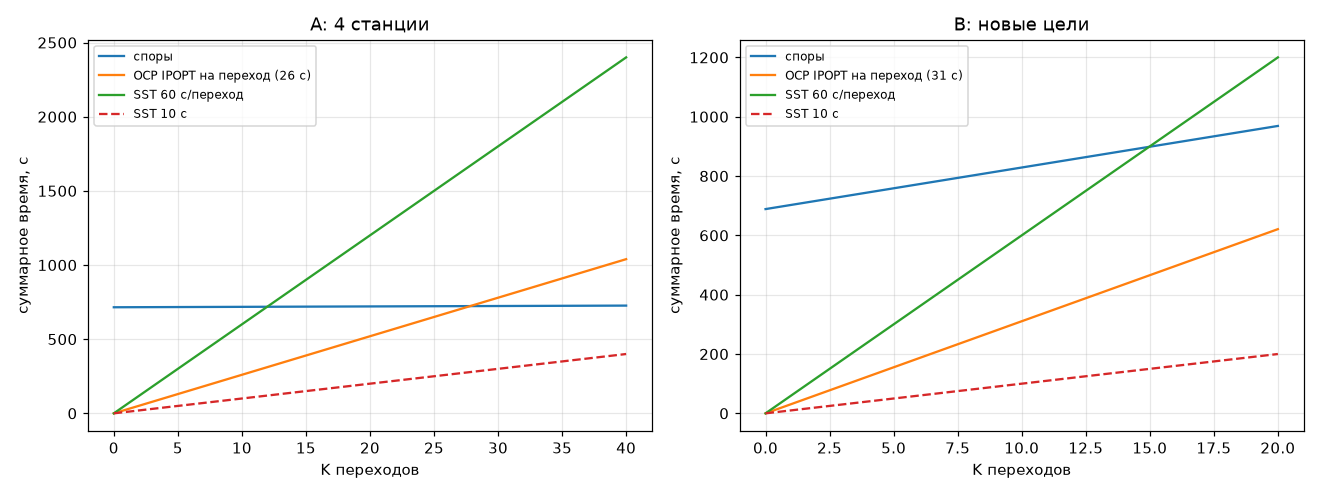
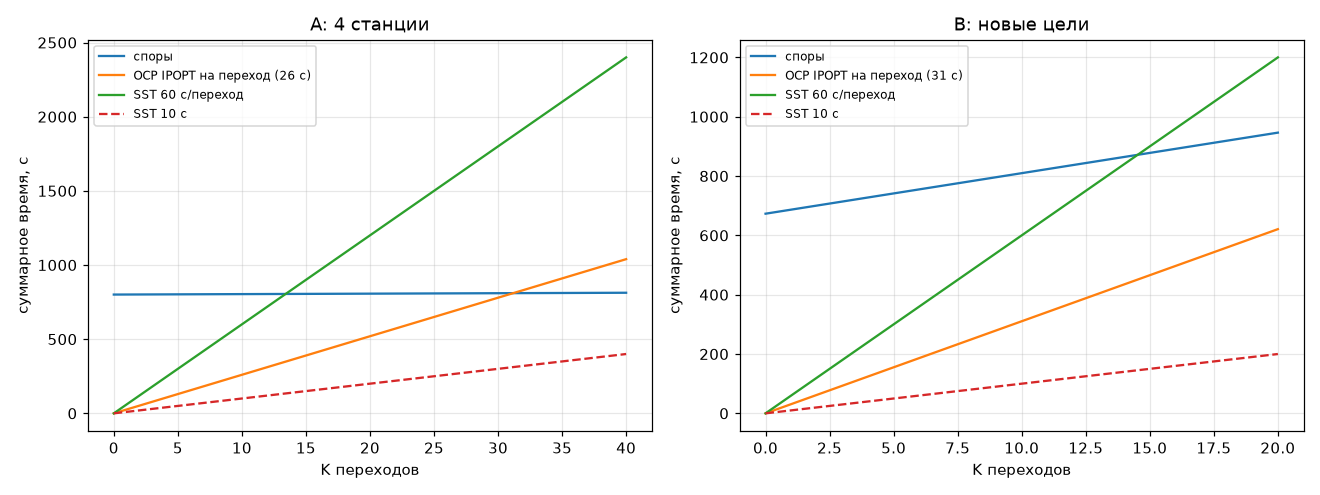
[hub-v5chain-worker-c3]: CA4: пересчёт спор с FIN-ω (A 36/40, 4 no_goal вместо box), B 20/20; mg_atlas.py, stage_b2

Changed region(s): [[0.0932, 0.5758, 0.4659, 0.6364], [0.5902, 0.2424, 0.9629, 0.4242]]

diff --git a/spores_2/bench/manip_goals_run.py b/spores_2/bench/manip_goals_run.py
@@ -80,6 +80,27 @@ def stage_run(kind, K):
         print(k, res[-1], flush=True)
     json.dump(res, open(os.path.join(common.DATA, 'mg_%s_spores.json' % kind), 'w'), indent=1, default=float)
 
+def wr(x): return (x + np.pi) % (2 * np.pi) - np.pi
+ATL = {0.: ('g300so', os.path.join(SRC, 'L_g300so.pkl'), os.path.expanduser('~/spore_v5/b9/E_g300so')), np.pi / 2: ('q157', os.path.join(SRC, 'L_q157.pkl'), os.path.join(SRC, 'E_q157')), np.pi: ('q314', os.path.join(SRC, 'L_q314.pkl'), os.path.join(SRC, 'E_q314'))}
+def stage_b2(kind, K):
+    """CA4-B2: 3 атласа (q2g = 0, π/2, π), цель → зеркало (q2g < 0) + сдвиг q1 → ближайший атлас → retarget → агент; проверка в исходной задаче (u = m·u')"""
+    import manip_goals as MGm, torch
+    tr, _ = MGm.transitions(kind); tr = tr[:K]; ref = {r['k']: r['Tref'] for r in json.load(open(os.path.join(common.DATA, 'mg_%s_ref.json' % kind)))}; res = {}
+    plan = []
+    for k, (st, g) in enumerate(tr):
+        m = -1. if wr(g[1]) < 0 else 1.; q2 = abs(wr(g[1])); a = min(ATL, key=lambda x: abs(x - q2)); plan.append((k, m, q2, a))
+    for a, (tag, lp, ep) in ATL.items():
+        ks = [p for p in plan if p[3] == a]
+        if not ks: continue
+        A = G.Atlas.__new__(G.Atlas); A.layers = pickle.load(open(lp, 'rb'))['layers']; A.finish(); S = spd.GoalSolver(A, ep)
+        for k, m, q2, _ in ks:
+            st, g = tr[k]; t0 = time.perf_counter(); S.retarget(np.array([0., q2, 0., 0.]), tol=1e-4, lcut=LCUT, fp32=True, log=lambda *x: None); tg = time.perf_counter() - t0
+            y0 = np.array([[wr(st[0] - g[0]) * m, wr(st[1]) * m, 0., 0.]]); t1 = time.perf_counter(); T, seg = rollout_rec(A, y0); dtq = time.perf_counter() - t1; sg = seg[0]
+            e = MGm.MG(g, st); Tv, why = common.verify(e, e.X0[0], [m * np.array(u, float) for u, d in sg], [d for u, d in sg])
+            res[k] = dict(k=k, start=list(map(float, st)), goal=list(map(float, g)), atlas=tag, mirror=m, q2g_eff=float(q2), Tref=ref.get(k), T_agent=float(T[0]) if np.isfinite(T[0]) else None, T_verify=Tv, why=why, t_goal=tg, t_query=dtq); print(k, res[k], flush=True)
+        del S, A; torch.cuda.empty_cache()
+    json.dump([res[k] for k in sorted(res)], open(os.path.join(common.DATA, 'mg_%s2_spores.json' % kind), 'w'), indent=1, default=float)
+
 if __name__ == '__main__':
     a = sys.argv[1:]
-    stage_run(a[1], int(a[2]) if len(a) > 2 else 99)
+    (stage_b2 if a[0] == 'b2' else stage_run)(a[1], int(a[2]) if len(a) > 2 else 99)

diff --git a/spores_2/bench/mg_atlas.py b/spores_2/bench/mg_atlas.py
@@ -1,0 +1,19 @@
+"""CA4-B2: атласы манипулятора с целью (0, q2g) для q2g = π/2, π (тот же growN, GC = центр цели при посеве GS; слои в абсолютных q). Вместе с базовым q2g=0 три атласа покрывают все цели
+(зеркало (q,ω,τ) → −(q,ω,τ) + сдвиг q1; каждый ±.8 по q2g; b9 SPD1b).
+  python3 mg_atlas.py build TAG Q2G      (CPU, system python3: слои; время — в заготовку) → L_TAG.pkl
+  venv-sb3 mg_atlas.py edges TAG Q2G     (GPU, под flock: полный solve с SAVEE → кэш рёбер E_TAG_*.npy; время — в заготовку)
+Рабочая папка ~/spore_v5/c1/manip_b9; результаты времени → data/mg_atlas_TAG.json."""
+import os, sys, time, json, pickle
+for k, v in dict(SYS='manip', KF='11', M='3', FRAC='.5', OVH='.5', MINROWS='3', GLIM='0', RMAX='.6', TMAX='3', SBCAUS='1', SBLAY='0', NOLATCH='1', FINGRID='2', VF='2', PESS='1', GPUMAX='1000000', GS='300', DELTA='.3', MAXC='3000', SONE='1', FINBOX='1', OMP_NUM_THREADS='2', PYTHONUNBUFFERED='1').items(): os.environ.setdefault(k, v)
+WD = os.path.expanduser('~/spore_v5/c1/manip_b9'); sys.path.insert(0, WD); sys.path.insert(0, os.path.dirname(os.path.abspath(__file__)))
+import numpy as np, common
+import growN as G
+import __main__; [setattr(__main__, k_, v_) for k_, v_ in vars(G).items() if isinstance(v_, type)]
+mode, tag, q2g = sys.argv[1], sys.argv[2], float(sys.argv[3]); G.GC = np.array([0., q2g, 0., 0.]); fn = os.path.join(common.DATA, 'mg_atlas_%s.json' % tag)
+J = json.load(open(fn)) if os.path.exists(fn) else {}
+if mode == 'build':
+    t0 = time.time(); A = G.Atlas(); tb = time.time() - t0; pickle.dump(dict(layers=A.layers), open(os.path.join(WD, 'L_%s.pkl' % tag), 'wb')); J.update(q2g=q2g, t_layers=tb, cells=[len(l) for l in A.layers], nodes=int(A.N)); print('LAYERS', tag, '%.0f с' % tb, J['cells'], A.N, flush=True)
+else:
+    A = G.Atlas.__new__(G.Atlas); A.layers = pickle.load(open(os.path.join(WD, 'L_%s.pkl' % tag), 'rb'))['layers']; A.finish(); os.environ['SAVEE'] = os.path.join(WD, 'E_%s' % tag); os.environ['SOLVEGPU'] = '1'
+    t0 = time.time(); A.solve(); ts = time.time() - t0; J.update(t_solve_savee=ts, iters=int(A.n_it)); print('EDGES', tag, '%.0f с' % ts, flush=True)
+json.dump(J, open(fn, 'w'), indent=1, default=float)

diff --git a/spores_2/bench/mg_report.py b/spores_2/bench/mg_report.py
@@ -15,7 +15,14 @@ for j, kind in enumerate('AB'):
     nd = len({tuple(np.round(x['goal'], 6)) for x in sp}); tg = float(np.mean([x['t_goal'] for x in sp if x['t_goal']])); tq = float(np.median([x['t_query'] for x in sp[1:]])); first = sp[0]['t_query']
     ok, med, p90 = stat([x['T_verify'] for x in sp], Tr); K = np.arange(0, n + 1)
     tot_sp = BASE + first + (nd * tg if kind == 'A' else 0) + (K * tg if kind == 'B' else 0) + K * tq
-    rows.append((kind, 'споры (retarget b9, без досева цели)', ok, med, p90, BASE + first, tg, tq, tot_sp[-1]))
+    rows.append((kind, 'споры (retarget b9, без досева цели; FIN-ω: финиш в коробке |ω|≤3)', ok, med, p90, BASE + first, tg, tq, tot_sp[-1]))
+    pf = L('mg_%s_spores_prefin.json' % kind)
+    if pf: okp, medp, p90p = stat([x['T_verify'] for x in pf], Tr); rows.append((kind, 'споры до FIN-ω (финиш мог выйти за |ω|≤3 — «выигрыш» нарушением)', okp, medp, p90p, BASE + first, tg, tq, tot_sp[-1]))
+    b2 = L('mg_%s2_spores.json' % kind)
+    if b2:
+        a2 = {x['atlas'] for x in b2}; okb, medb, p90b = stat([x['T_verify'] for x in b2], Tr); tgb = float(np.mean([x['t_goal'] for x in b2])); tqb = float(np.median([x['t_query'] for x in b2]))
+        base3 = BASE + first + sum((L('mg_atlas_%s.json' % t) or {}).get('t_layers', 0) + (L('mg_atlas_%s.json' % t) or {}).get('t_solve_savee', 0) for t in ('q157', 'q314'))
+        rows.append((kind, 'споры B2: 3 атласа (q2g 0, π/2, π) + зеркало/сдвиг, FIN-ω', okb, medb, p90b, base3, tgb, tqb, base3 + n * (tgb + tqb)))
     ax[j].plot(K, tot_sp, label='споры'); ax[j].plot(K, K * t_ocp, label='OCP IPOPT на переход (%.0f с)' % t_ocp)
     rows.append((kind, 'OCP IPOPT на переход (эталон)', 1., 1., 1., 0., 0., t_ocp, n * t_ocp))
     if sst:

diff --git a/reports/bench/table_mg.md b/reports/bench/table_mg.md
@@ -1,6 +1,7 @@
 | вар | метод | дошли | T/Tref мед | p90 | заготовка, с | на цель, с | запрос, с | total(все K), с |
 |---|---|---|---|---|---|---|---|---|
-| A | споры (retarget b9, без досева цели) | 90% | 1.000 | 1.027 | 662 | 13.3 | 0.28 | 726 |
+| A | споры (retarget b9, без досева цели; FIN-ω: финиш в коробке |ω|≤3) | 90% | 1.000 | 1.027 | 745 | 13.9 | 0.30 | 813 |
+| A | споры до FIN-ω (финиш мог выйти за |ω|≤3 — «выигрыш» нарушением) | 90% | 1.000 | 1.027 | 745 | 13.9 | 0.30 | 813 |
 | A | OCP IPOPT на переход (эталон) | 100% | 1.000 | 1.000 | 0 | 0.0 | 25.99 | 1040 |
 | A | SST 0.3 с/переход | 40% | 1.510 | 2.399 | 0 | 0.0 | 0.30 | 12 |
 | A | SST 1 с/переход | 60% | 1.482 | 2.051 | 0 | 0.0 | 1.00 | 40 |
@@ -10,7 +11,8 @@
 | A | PPO 5.0M шагов s0 (одна тренировка на все цели) | 40% | 2.013 | 2.733 | 726 | 0.0 | 0.01 | 727 |
 | A | PPO 5.0M шагов s1 (одна тренировка на все цели) | 8% | 1.787 | 1.787 | 744 | 0.0 | 0.02 | 745 |
 | A | PPO 5.0M шагов s2 (одна тренировка на все цели) | 5% | 2.154 | 2.154 | 743 | 0.0 | 0.02 | 744 |
-| B | споры (retarget b9, без досева цели) | 100% | 1.040 | 1.284 | 689 | 13.7 | 0.32 | 969 |
+| B | споры (retarget b9, без досева цели; FIN-ω: финиш в коробке |ω|≤3) | 100% | 1.040 | 1.284 | 673 | 13.4 | 0.31 | 946 |
+| B | споры до FIN-ω (финиш мог выйти за |ω|≤3 — «выигрыш» нарушением) | 100% | 1.040 | 1.284 | 673 | 13.4 | 0.31 | 946 |
 | B | OCP IPOPT на переход (эталон) | 100% | 1.000 | 1.000 | 0 | 0.0 | 31.05 | 621 |
 | B | SST 0.3 с/переход | 55% | 1.948 | 2.503 | 0 | 0.0 | 0.30 | 6 |
 | B | SST 1 с/переход | 65% | 1.963 | 2.489 | 0 | 0.0 | 1.00 | 20 |
@@ -21,6 +23,6 @@
 | B | PPO 5.0M шагов s1 (одна тренировка на все цели) | 5% | 1.794 | 1.794 | 744 | 0.0 | 0.02 | 745 |
 | B | PPO 5.0M шагов s2 (одна тренировка на все цели) | 35% | 1.921 | 2.590 | 743 | 0.0 | 0.02 | 744 |
 
-Безубыточность A vs OCP: K* = 28 переходов (заготовка 662 с / (OCP 26.0 − споры 0.28 на переход)).
+Безубыточность A vs OCP: K* = 31 переходов (заготовка 745 с / (OCP 26.0 − споры 0.30 на переход)).
 
-Безубыточность B vs OCP: K* = 40 переходов (заготовка 689 с / (OCP 31.0 − споры 14.01 на переход)).
+Безубыточность B vs OCP: K* = 39 переходов (заготовка 673 с / (OCP 31.0 − споры 13.66 на переход)).
